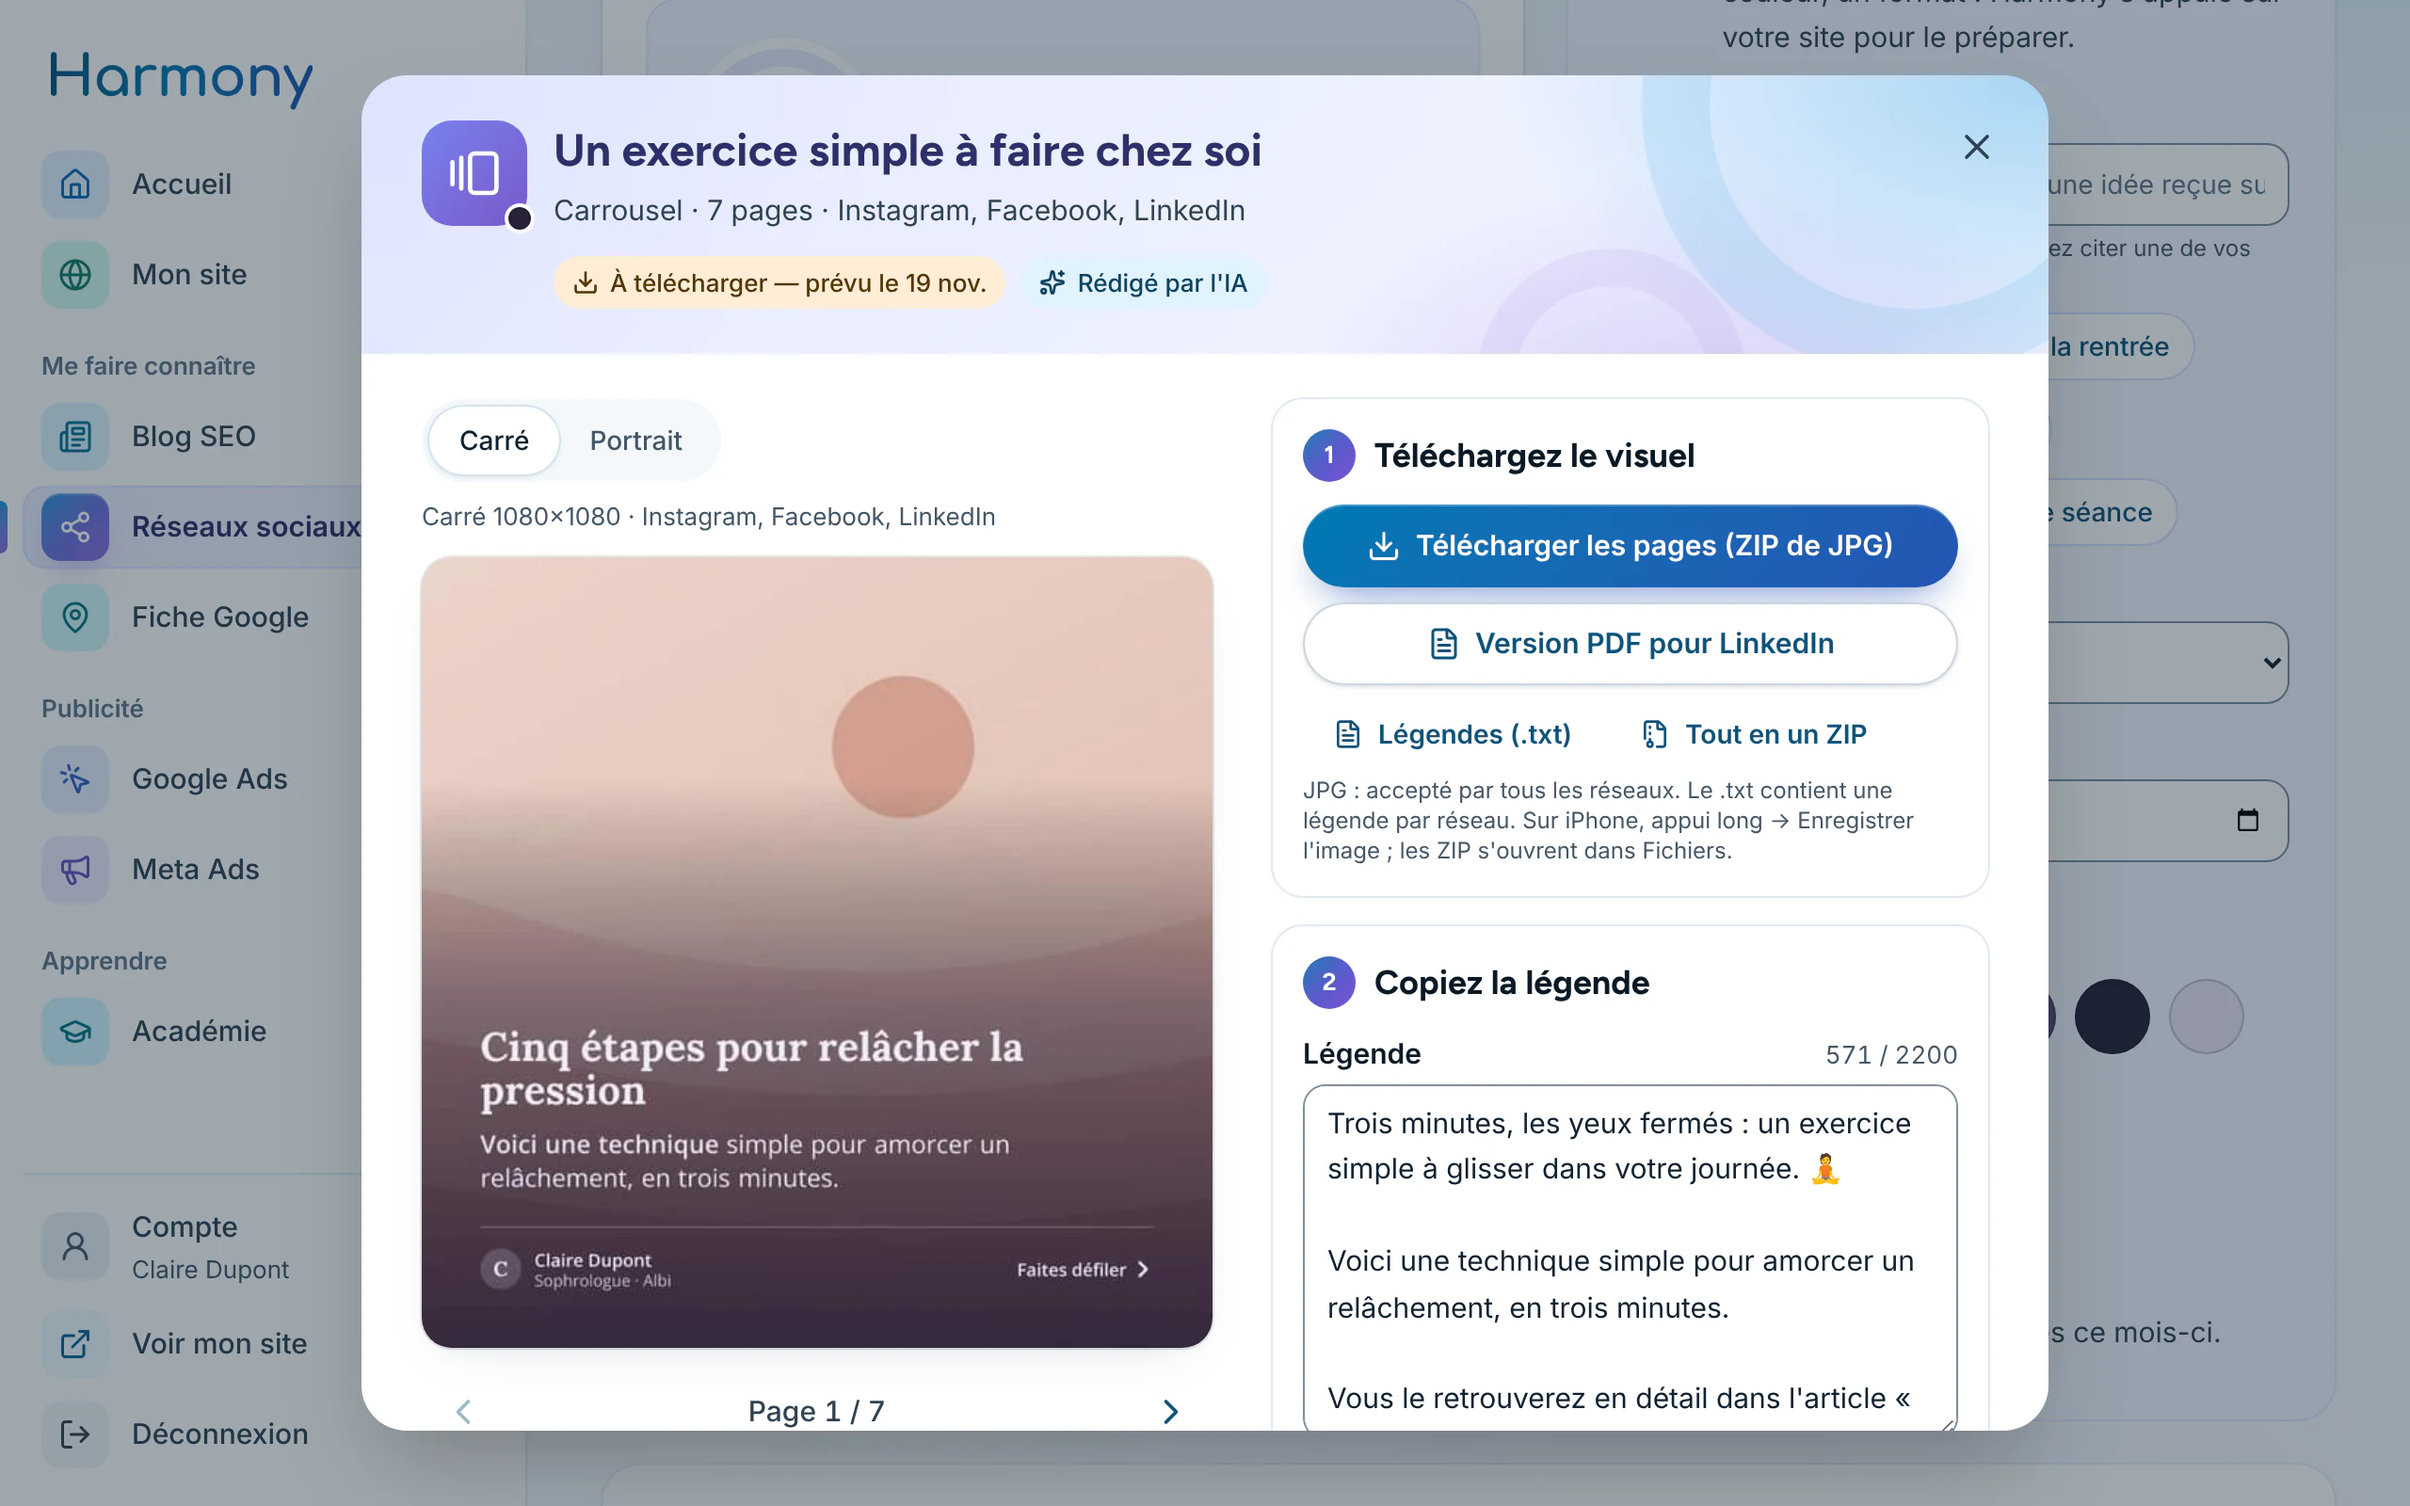
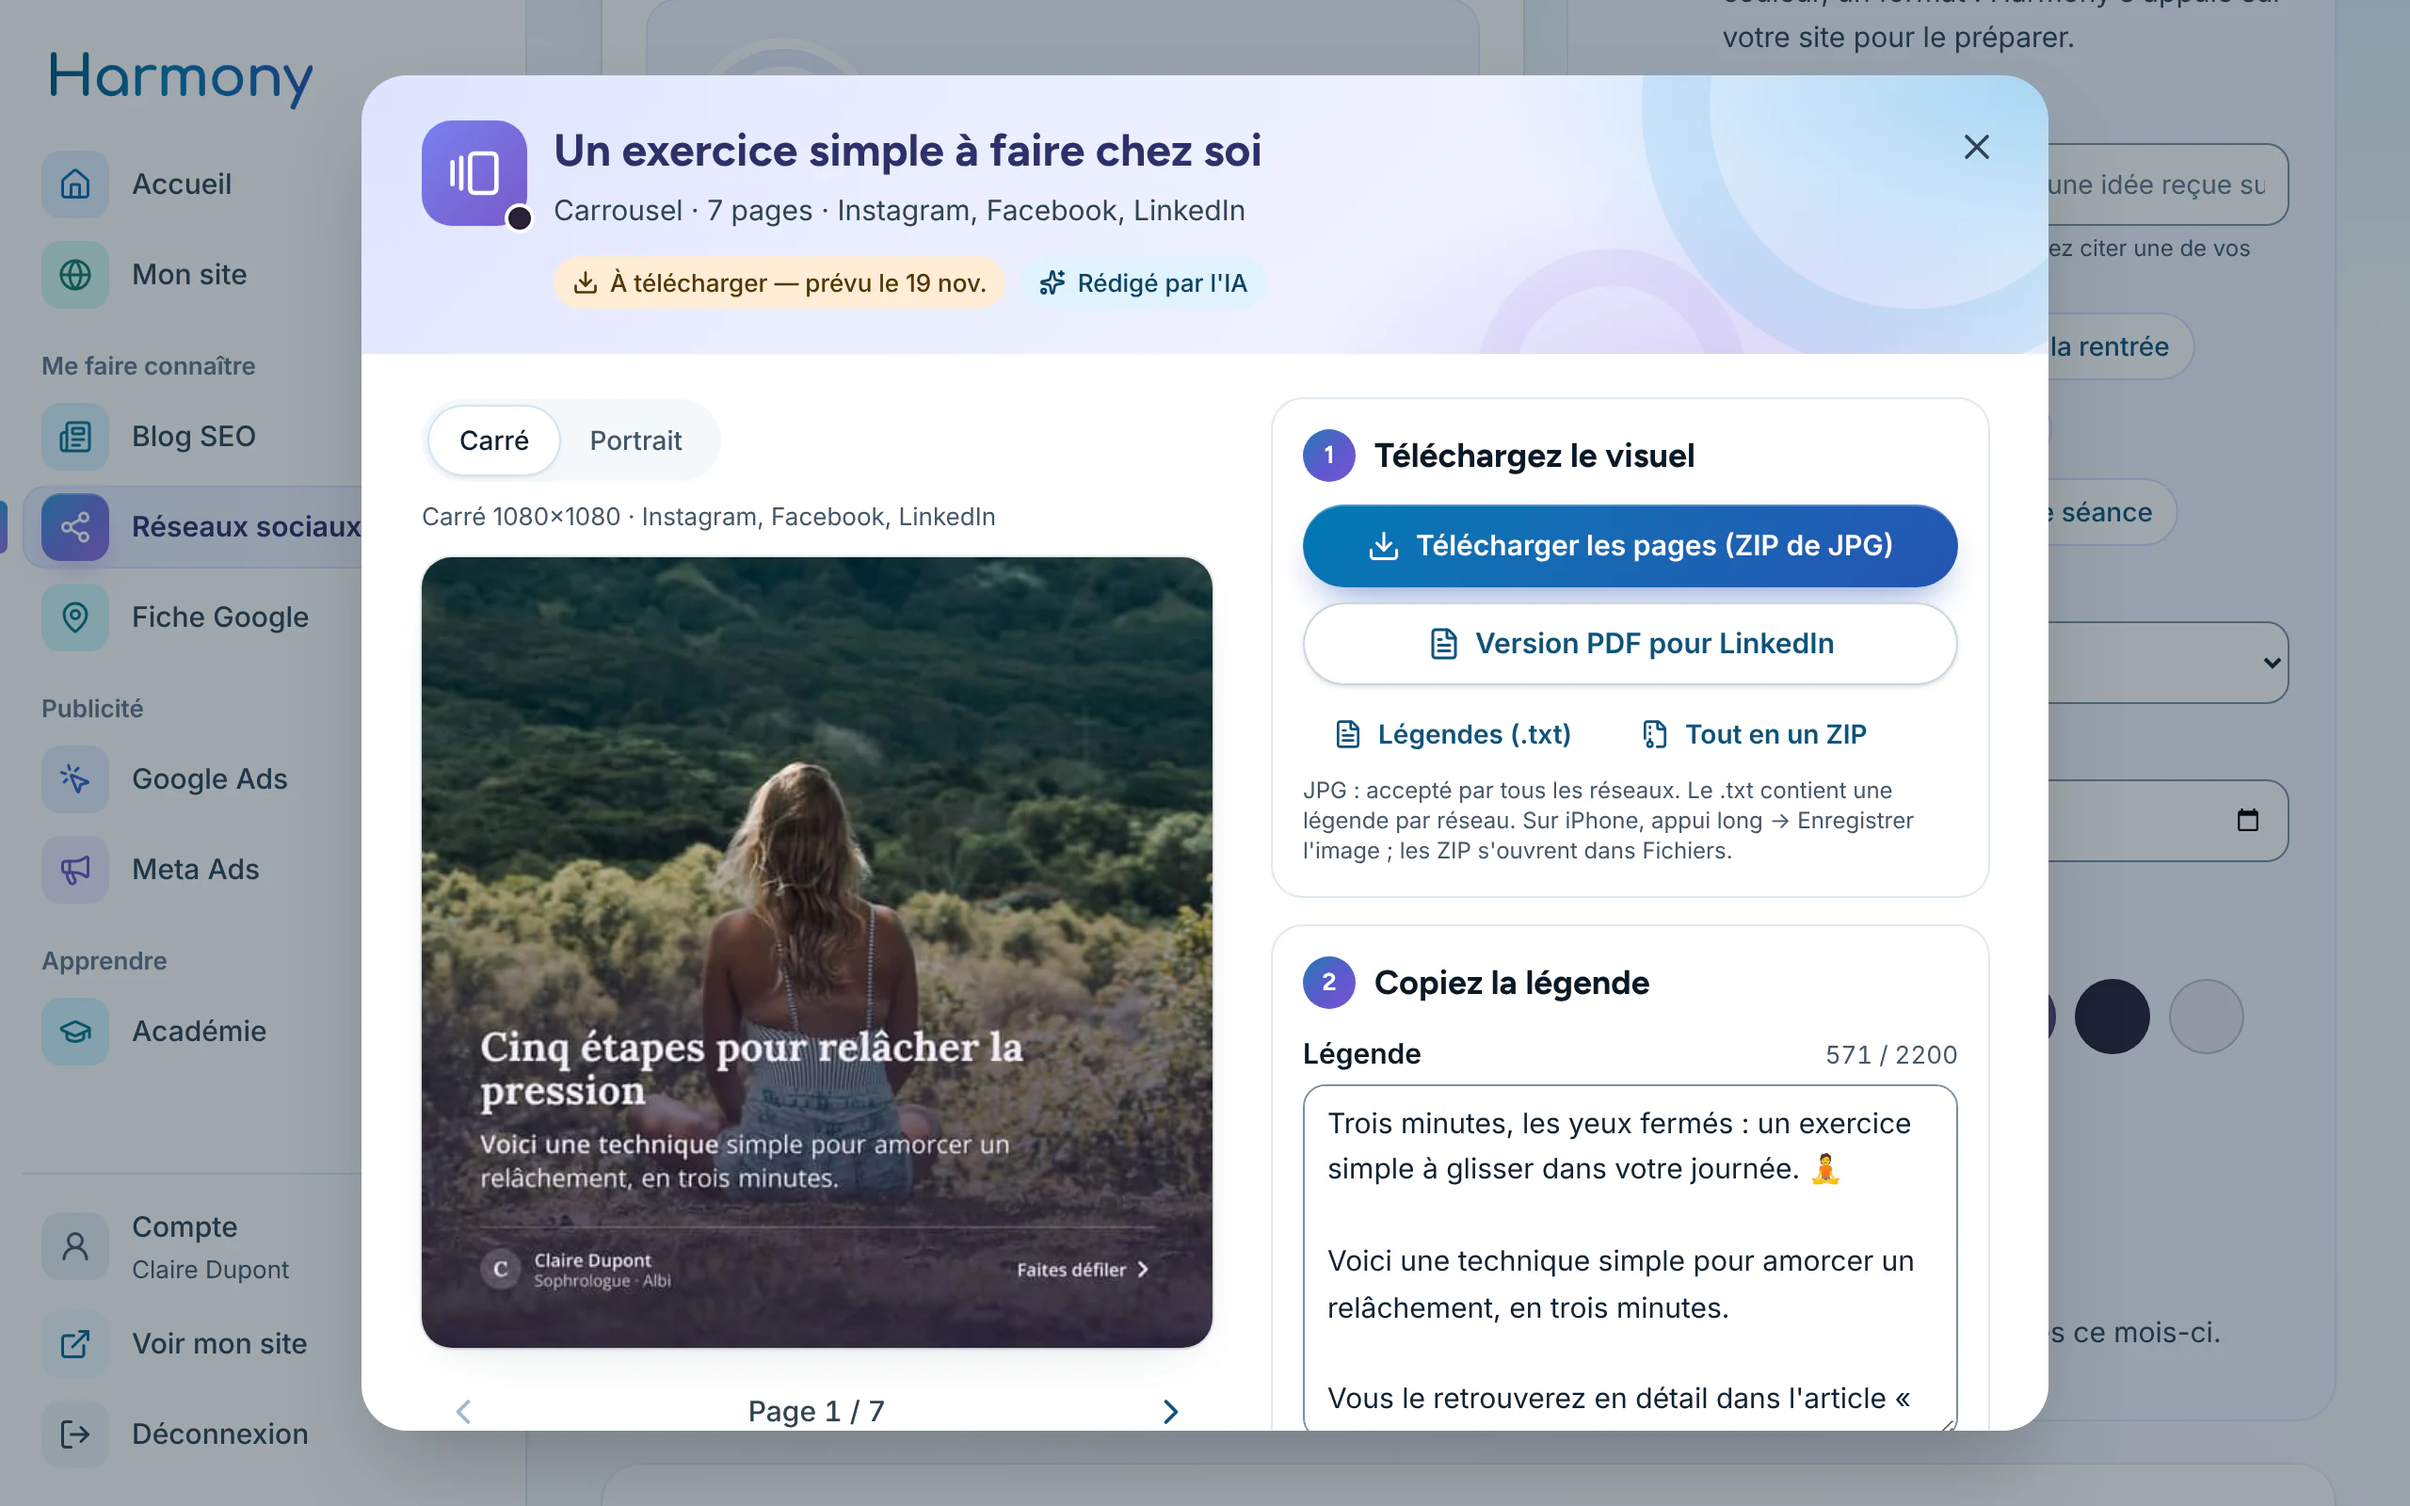
Vitrine : une vraie publication avec photo dans le haut de page
Le visuel de la carte « Prêt à poster » était presque vide : la couverture
du carrousel portait la photo simulée du mode démonstration (un dégradé).
Elle porte maintenant une vraie photographie, comme chez un praticien, et
le visuel est rendu par le studio lui-même : titre, accroche et signature
du cabinet posés sur la photo.

- le haut de page et l'éventail de « Vous gardez la main » montrent ce
  nouveau visuel
- la capture de l'écran « Réseaux sociaux » de la visite est reprise avec
  le même carrousel
- la photographie vient de Pexels (licence libre, usage commercial) ; sa
  source est notée dans le README

Claude-Session: https://claude.ai/code/session_01VAqHZMJTwEM2F4S68Te5m8

Changed region(s): [[0.1562, 0.3438, 0.5, 0.8438]]

diff --git a/apps/web/components/hero.tsx b/apps/web/components/hero.tsx
@@ -126,7 +126,7 @@ export function Hero() {
               pages={7}
               caption="Trois minutes, les yeux fermés : un exercice simple à glisser dans votre journée."
               hashtags={["sophrologie", "albi", "gestiondustress"]}
-              label="Exemple de publication prête à poster : le carrousel « Cinq étapes pour relâcher la pression » préparé par Harmony, dans le fil Instagram d'une sophrologue, avec sa légende et ses mots-dièse."
+              label="Exemple de publication prête à poster : le carrousel « Cinq étapes pour relâcher la pression » préparé par Harmony, dans le fil Instagram d'une sophrologue. Sa première page pose le titre sur la photographie d'une personne assise face à la montagne ; suivent la légende et les mots-dièse."
             />
           </div>
           <div data-parallax="-0.05" className="absolute -right-2 -bottom-16 hidden w-48 lg:block xl:-right-8 xl:w-56">

diff --git a/apps/web/README.md b/apps/web/README.md
@@ -63,6 +63,12 @@ démonstration, en mode production :
 - morceaux d'écran : `detail-*` (une carte du studio) et `visuel-*` (un visuel
   généré pour les réseaux sociaux).
 
+Le carrousel montré dans le haut de page et dans l'écran « Réseaux sociaux »
+est un rendu du studio (`/api/social/…/render`) dont la couverture porte une
+vraie photographie, comme chez un praticien : elle vient de Pexels (licence
+libre, usage commercial sans attribution),
+<https://www.pexels.com/photo/unrecognizable-female-meditating-on-grass-in-highlands-on-sunny-day-5694121/>.
+
 Après une évolution visible du studio, reprendre les captures concernées aux
 mêmes dimensions, puis les convertir en WebP (qualité 88) sous le même nom :
 la page n'a pas à changer.
